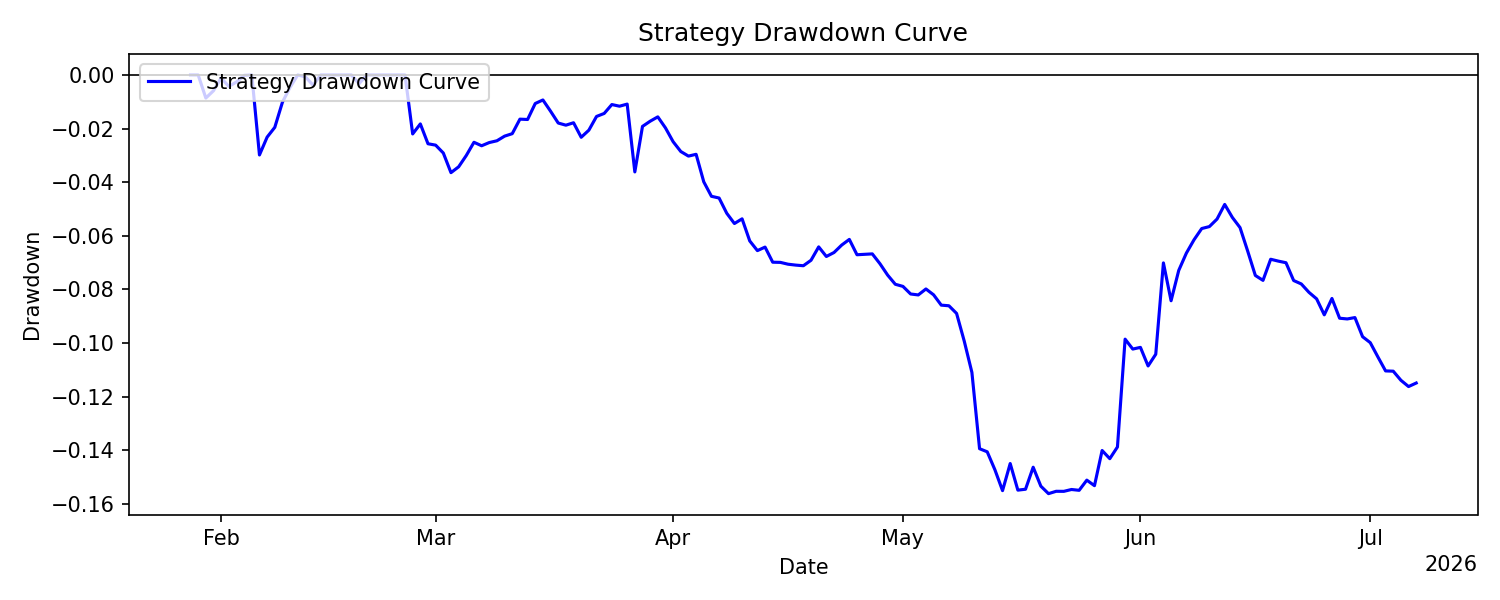
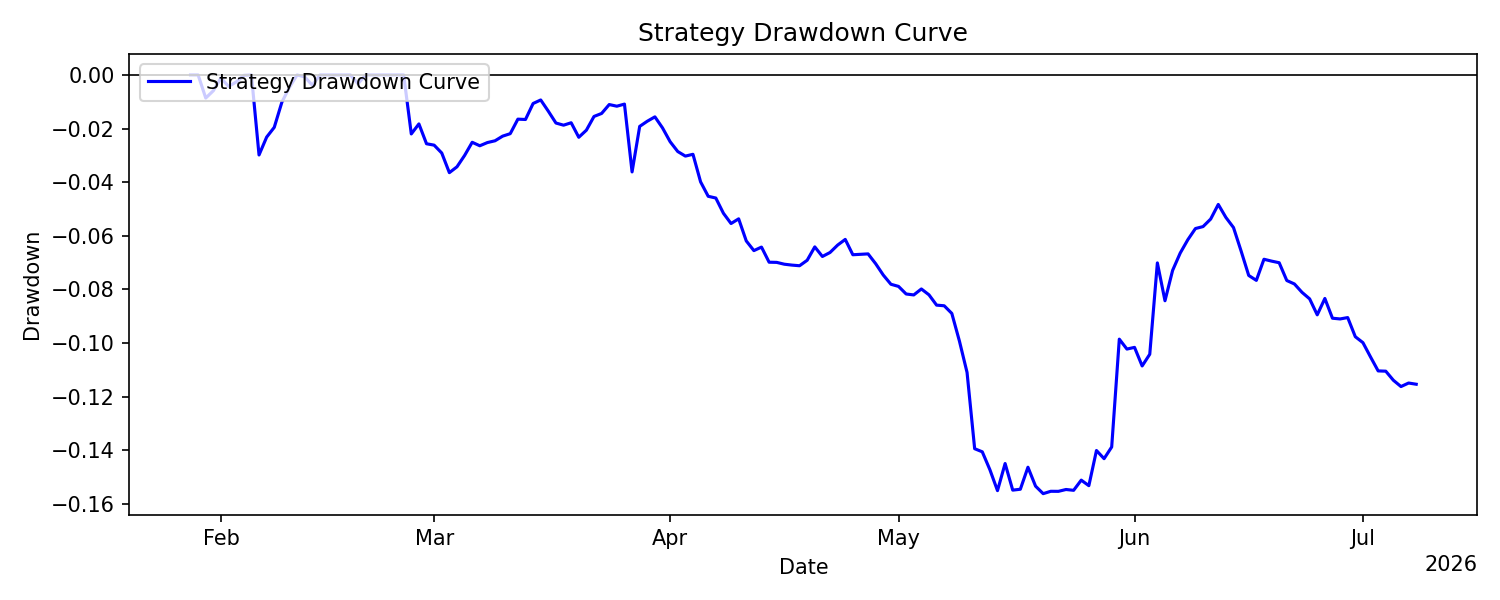
Update reports: 2026-07-08 00:02:25 UTC

diff --git a/README.md b/README.md
@@ -24,26 +24,26 @@ All results are live and reported net of transaction costs and slippage.
 <!-- METRICS_START -->
 | metric                       |        values |
 |:-----------------------------|--------------:|
-| Number of Observations       | 161           |
-| Mean Daily Return            |  -0.000362932 |
-| Daily Volatility             |   0.00884547  |
-| Mean Annualized Return       |  -0.13247     |
-| Annualized Volatility        |   0.168992    |
+| Number of Observations       | 162           |
+| Mean Daily Return            |  -0.000363836 |
+| Daily Volatility             |   0.00881796  |
+| Mean Annualized Return       |  -0.1328      |
+| Annualized Volatility        |   0.168467    |
 | Maximum Drawdown             |  -0.156146    |
-| Max Drawdown Duration (Days) | 132           |
-| Sharpe                       |  -0.783883    |
-| Sortino                      |  -1.07942     |
-| Calmar                       |  -0.848375    |
-| CAGR                         |  -0.136399    |
-| Skewness                     |   0.682727    |
-| Excess Kurtosis              |   8.16028     |
-| Win Rate                     |   0.47205     |
-| Profit Factor                |   0.877669    |
-| VaR 1%                       |  -0.0280626   |
+| Max Drawdown Duration (Days) | 133           |
+| Sharpe                       |  -0.788286    |
+| Sortino                      |  -1.0845      |
+| Calmar                       |  -0.850486    |
+| CAGR                         |  -0.136609    |
+| Skewness                     |   0.685113    |
+| Excess Kurtosis              |   8.22836     |
+| Win Rate                     |   0.469136    |
+| Profit Factor                |   0.876735    |
+| VaR 1%                       |  -0.0280329   |
 | CVaR 1%                      |  -0.030925    |
-| VaR 5%                       |  -0.0113318   |
+| VaR 5%                       |  -0.0112946   |
 | CVaR 5%                      |  -0.0208176   |
-| Correlation with BTC         |  -0.0144373   |
+| Correlation with BTC         |  -0.0140314   |
 <!-- METRICS_END -->
 
 ## Sharpe Statistics
@@ -55,14 +55,14 @@ All results are live and reported net of transaction costs and slippage.
 | metric                     |   values |
 |:---------------------------|---------:|
 | alpha                      |   0.05   |
-| t-statistic                |  -0.5206 |
-| p-value                    |   0.6034 |
-| Daily Sharpe Ratio         |  -0.041  |
-| Annualized Sharpe Ratio    |  -0.7839 |
-| Sharpe Standard Error      |   1.5346 |
-| C.I. Lower Bound           |  -3.7916 |
-| C.I. Upper Bound           |   2.2238 |
-| Bootstrap C.I. Lower Bound |  -4.1376 |
-| Bootstrap C.I. Upper Bound |   2.8088 |
+| t-statistic                |  -0.5252 |
+| p-value                    |   0.6002 |
+| Daily Sharpe Ratio         |  -0.0413 |
+| Annualized Sharpe Ratio    |  -0.7883 |
+| Sharpe Standard Error      |   1.53   |
+| C.I. Lower Bound           |  -3.7871 |
+| C.I. Upper Bound           |   2.2105 |
+| Bootstrap C.I. Lower Bound |  -4.1236 |
+| Bootstrap C.I. Upper Bound |   2.8761 |
 <!-- SHARPE_END -->
 
